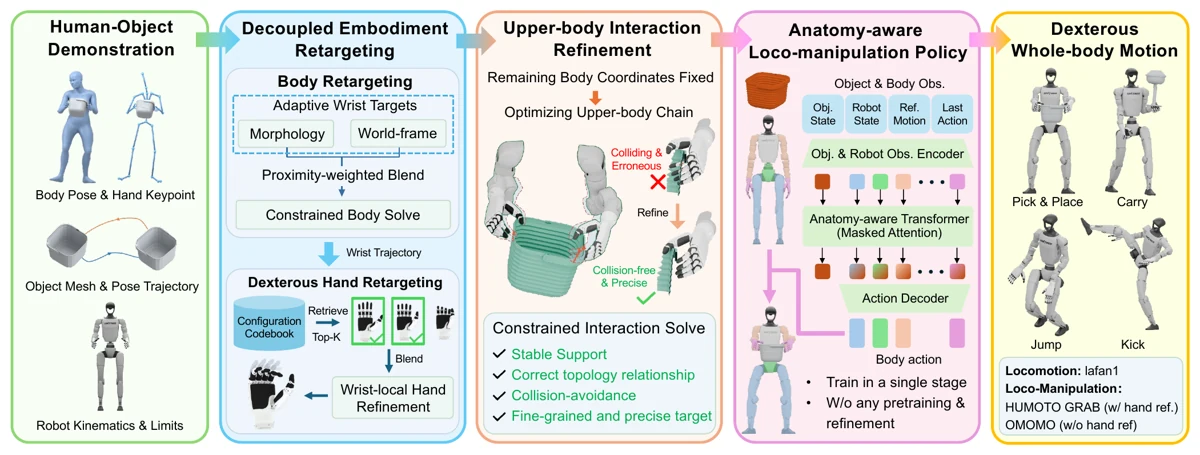
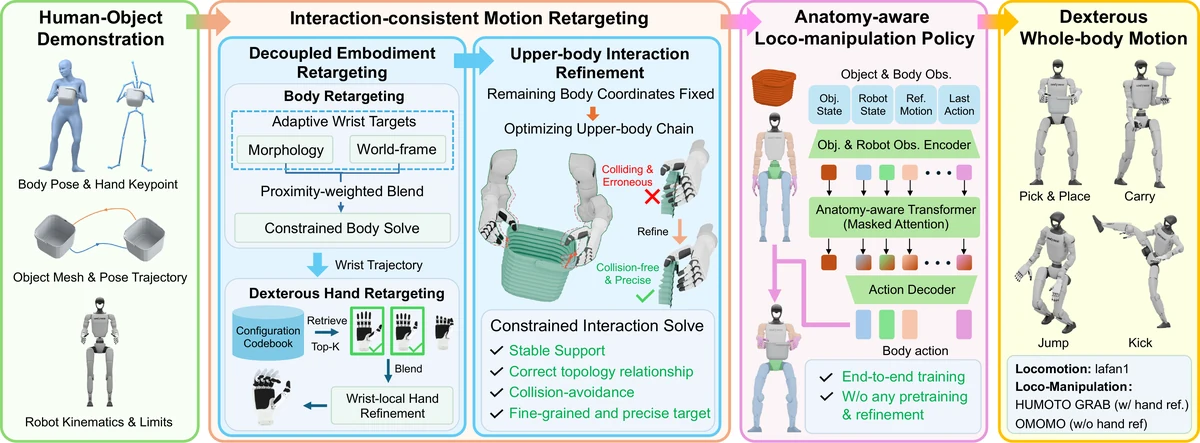
Update method pipeline figure

diff --git a/index.html b/index.html
@@ -40,7 +40,7 @@
         </div></section>
     <section class="section" id="method"><div class="container is-max-desktop">
       <h2 class="title is-2 has-text-centered">Method overview</h2>
-      <figure><a href="assets/method-overview.webp" target="_blank" rel="noopener" aria-label="Open Figure 2 at full resolution"><img src="assets/method-overview.webp" srcset="assets/method-overview-small.webp 1200w, assets/method-overview.webp 2101w" sizes="(max-width: 1000px) calc(100vw - 40px), 1140px" width="2101" height="797" loading="lazy" decoding="async" alt="Figure 2: DexWeave's pipeline from decoupled body and hand retargeting through upper-body interaction refinement to anatomy-aware policy learning."></a></figure>
+      <figure><a href="assets/method-overview.webp?v=c8c24afe" target="_blank" rel="noopener" aria-label="Open Figure 2 at full resolution"><img src="assets/method-overview.webp?v=c8c24afe" srcset="assets/method-overview-small.webp?v=5dfc0ef2 1200w, assets/method-overview.webp?v=c8c24afe 3312w" sizes="(max-width: 1000px) calc(100vw - 40px), 1140px" width="3312" height="1224" loading="lazy" decoding="async" alt="Figure 2: Human-object demonstrations flow through interaction-consistent motion retargeting and an anatomy-aware policy to produce dexterous whole-body motion."></a></figure>
       <p class="reading content has-text-justified">DexWeave first retargets body and hand motions with specialized solvers, then jointly refines the arms, wrists, and fingers while preserving the supporting body motion. An anatomy-aware Transformer uses regional tokens and masked attention to coordinate whole-body control, with object information guiding upper-body interaction. The policy is trained in a single PPO stage to control the 41 actuated joints of a Unitree G1 with Inspire hands.</p>
         </div></section>
     <div id="experiments"><div id="videos">

diff --git a/README.md b/README.md
@@ -5,7 +5,7 @@ Edit `index.html` for content and `styles.css` for appearance. Commit to `main`,
 ## Figures and tables
 
 - Teaser: manuscript Figure 1, `figures/robot.pdf` → `assets/teaser.webp`.
-- Method: manuscript Figure 2, `figures/retarget_pipeline.pdf` → `assets/method-overview.webp`. Only the surrounding blank page area is cropped.
+- Method: manuscript Figure 2, `figures/retarget_pipeline.pdf` → `assets/method-overview.webp`.
 - Tables: current manuscript experiments and ablation tables. Unreported policy results use an em dash.
 
 When replacing either image, also update its `-small.webp` version and the HTML image dimensions.
